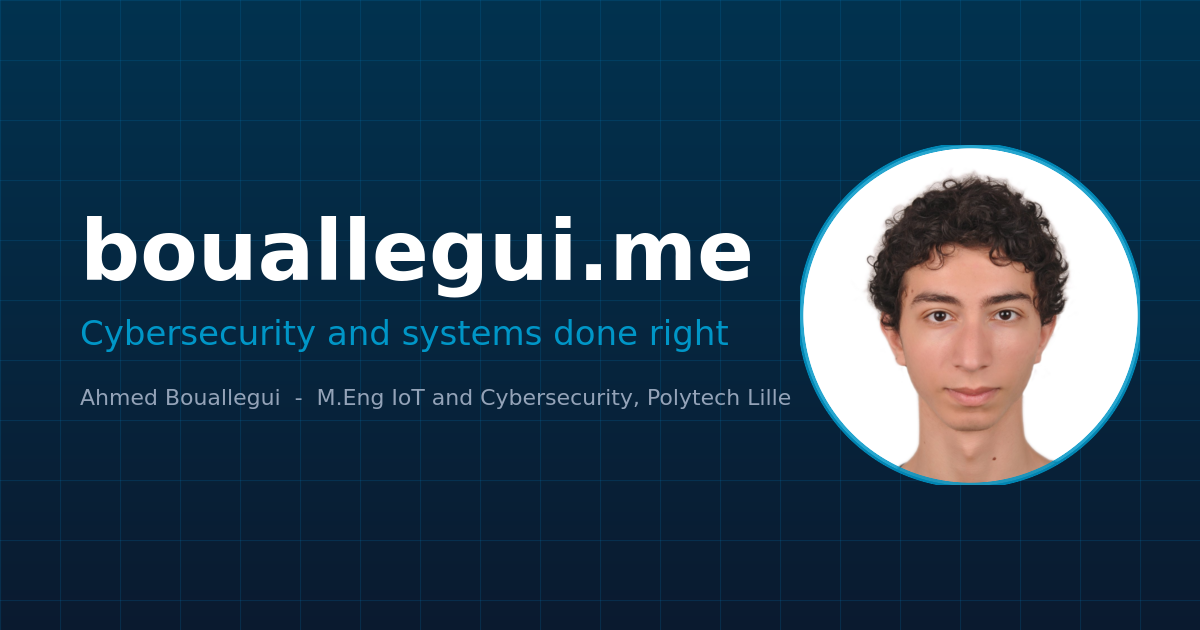
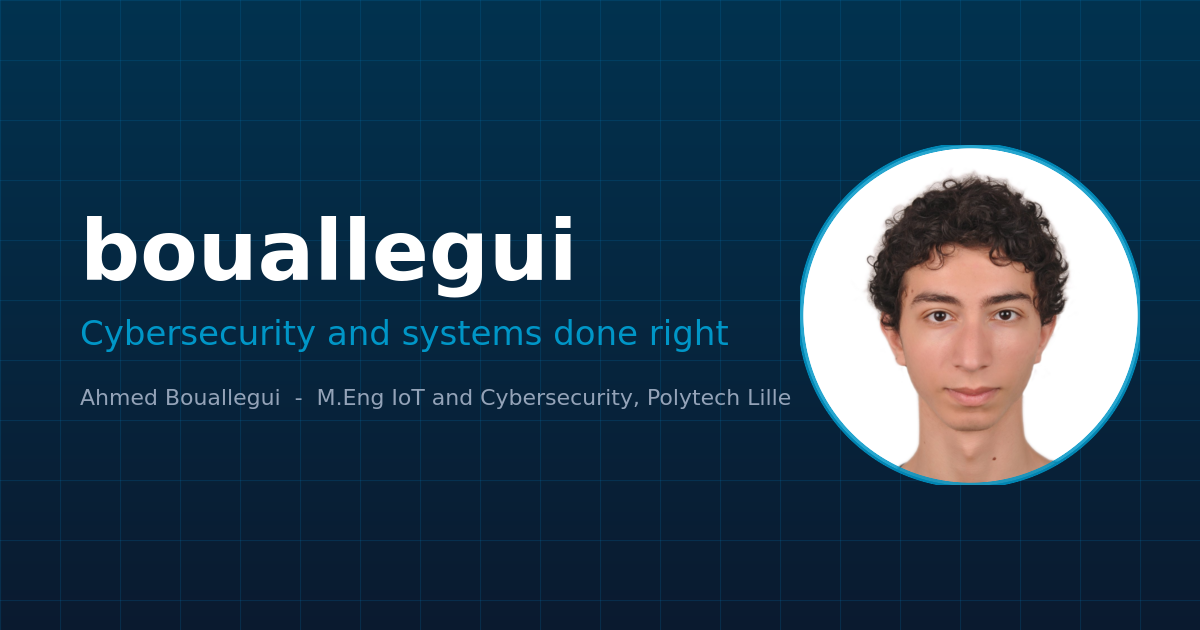
fix: retire the last bouallegui.me strings
The project on Cloudflare Pages is called bouallegui and the canonical
origin is bouallegui.pages.dev, but the footer brand, the WebSite JSON-LD
name, the og card headline, the contact form subject, the package name
and a few README lines still said bouallegui.me. The footer now carries
the same brand as the page titles and og:site_name, and the og card
headline is the bare brand so it does not collide with the portrait.

Changed region(s): [[0.4625, 0.3619, 0.6475, 0.4524]]

diff --git a/index.html b/index.html
@@ -31,7 +31,7 @@
   <link rel="stylesheet" href="css/output.css">
   <script src="js/theme.js"></script>
   <script type="application/ld+json">{"@context":"https://schema.org","@type":"Person","name":"Ahmed Taha Bouallegui","url":"https://bouallegui.pages.dev/","image":"https://bouallegui.pages.dev/images/portrait.jpg","sameAs":["https://github.com/TahaBouallegui","https://www.linkedin.com/in/ahmed-taha-bouallegui-474215306"]}</script>
-  <script type="application/ld+json">{"@context":"https://schema.org","@type":"WebSite","name":"bouallegui.me","url":"https://bouallegui.pages.dev/","inLanguage":"en"}</script>
+  <script type="application/ld+json">{"@context":"https://schema.org","@type":"WebSite","name":"Ahmed Taha Bouallegui","url":"https://bouallegui.pages.dev/","inLanguage":"en"}</script>
 </head>
 <body class="bg-surface text-ink">
   <a id="skip" class="skip-link" href="#main">Skip to main content</a>
@@ -268,7 +268,7 @@
   <footer data-part="footer" class="mt-24 border-t border-slate-200 bg-slate-50/80">
   <div class="container flex flex-wrap items-center justify-between gap-4 py-7 text-sm text-slate-600">
     <div class="flex flex-wrap items-baseline gap-x-3 gap-y-1">
-      <p class="font-display text-slate-700">&copy; <span id="current-year">2026</span> Bouallegui.me - Cybersecurity and systems done right</p>
+      <p class="font-display text-slate-700">&copy; <span id="current-year">2026</span> Ahmed Taha Bouallegui - Cybersecurity and systems done right</p>
       <p>Site source and writing under <a href="https://www.gnu.org/licenses/gpl-3.0.html" rel="license" class="text-link transition hover:underline">GPL-3.0-or-later</a></p>
     </div>
     <ul class="flex items-center gap-6">

diff --git a/posts/my-shell-is-a-package.html b/posts/my-shell-is-a-package.html
@@ -155,7 +155,7 @@ users.users.&lt;user&gt;.shell = self.packages.${pkgs.system}.environment;</code
   <footer data-part="footer" class="mt-24 border-t border-slate-200 bg-slate-50/80">
   <div class="container flex flex-wrap items-center justify-between gap-4 py-7 text-sm text-slate-600">
     <div class="flex flex-wrap items-baseline gap-x-3 gap-y-1">
-      <p class="font-display text-slate-700">&copy; <span id="current-year">2026</span> Bouallegui.me - Cybersecurity and systems done right</p>
+      <p class="font-display text-slate-700">&copy; <span id="current-year">2026</span> Ahmed Taha Bouallegui - Cybersecurity and systems done right</p>
       <p>Site source and writing under <a href="https://www.gnu.org/licenses/gpl-3.0.html" rel="license" class="text-link transition hover:underline">GPL-3.0-or-later</a></p>
     </div>
     <ul class="flex items-center gap-6">

diff --git a/posts/one-flake-three-machines.html b/posts/one-flake-three-machines.html
@@ -134,7 +134,7 @@ imports = [ self.nixosModules.desktop ... ];</code></pre>
   <footer data-part="footer" class="mt-24 border-t border-slate-200 bg-slate-50/80">
   <div class="container flex flex-wrap items-center justify-between gap-4 py-7 text-sm text-slate-600">
     <div class="flex flex-wrap items-baseline gap-x-3 gap-y-1">
-      <p class="font-display text-slate-700">&copy; <span id="current-year">2026</span> Bouallegui.me - Cybersecurity and systems done right</p>
+      <p class="font-display text-slate-700">&copy; <span id="current-year">2026</span> Ahmed Taha Bouallegui - Cybersecurity and systems done right</p>
       <p>Site source and writing under <a href="https://www.gnu.org/licenses/gpl-3.0.html" rel="license" class="text-link transition hover:underline">GPL-3.0-or-later</a></p>
     </div>
     <ul class="flex items-center gap-6">

diff --git a/posts/a-keyboard-that-took-out-its-own-mcu.html b/posts/a-keyboard-that-took-out-its-own-mcu.html
@@ -237,7 +237,7 @@ _delay_us(2);</code></pre>
   <footer data-part="footer" class="mt-24 border-t border-slate-200 bg-slate-50/80">
   <div class="container flex flex-wrap items-center justify-between gap-4 py-7 text-sm text-slate-600">
     <div class="flex flex-wrap items-baseline gap-x-3 gap-y-1">
-      <p class="font-display text-slate-700">&copy; <span id="current-year">2026</span> Bouallegui.me - Cybersecurity and systems done right</p>
+      <p class="font-display text-slate-700">&copy; <span id="current-year">2026</span> Ahmed Taha Bouallegui - Cybersecurity and systems done right</p>
       <p>Site source and writing under <a href="https://www.gnu.org/licenses/gpl-3.0.html" rel="license" class="text-link transition hover:underline">GPL-3.0-or-later</a></p>
     </div>
     <ul class="flex items-center gap-6">

diff --git a/posts/nl80211-wireless-detection.html b/posts/nl80211-wireless-detection.html
@@ -363,7 +363,7 @@ nla_put_failure:
   <footer data-part="footer" class="mt-24 border-t border-slate-200 bg-slate-50/80">
   <div class="container flex flex-wrap items-center justify-between gap-4 py-7 text-sm text-slate-600">
     <div class="flex flex-wrap items-baseline gap-x-3 gap-y-1">
-      <p class="font-display text-slate-700">&copy; <span id="current-year">2026</span> Bouallegui.me - Cybersecurity and systems done right</p>
+      <p class="font-display text-slate-700">&copy; <span id="current-year">2026</span> Ahmed Taha Bouallegui - Cybersecurity and systems done right</p>
       <p>Site source and writing under <a href="https://www.gnu.org/licenses/gpl-3.0.html" rel="license" class="text-link transition hover:underline">GPL-3.0-or-later</a></p>
     </div>
     <ul class="flex items-center gap-6">

diff --git a/posts/an-editor-built-up-from-nothing.html b/posts/an-editor-built-up-from-nothing.html
@@ -138,7 +138,7 @@ return {
   <footer data-part="footer" class="mt-24 border-t border-slate-200 bg-slate-50/80">
   <div class="container flex flex-wrap items-center justify-between gap-4 py-7 text-sm text-slate-600">
     <div class="flex flex-wrap items-baseline gap-x-3 gap-y-1">
-      <p class="font-display text-slate-700">&copy; <span id="current-year">2026</span> Bouallegui.me - Cybersecurity and systems done right</p>
+      <p class="font-display text-slate-700">&copy; <span id="current-year">2026</span> Ahmed Taha Bouallegui - Cybersecurity and systems done right</p>
       <p>Site source and writing under <a href="https://www.gnu.org/licenses/gpl-3.0.html" rel="license" class="text-link transition hover:underline">GPL-3.0-or-later</a></p>
     </div>
     <ul class="flex items-center gap-6">

diff --git a/fr/about.html b/fr/about.html
@@ -172,7 +172,7 @@
   <footer data-part="footer" class="mt-24 border-t border-slate-200 bg-slate-50/80">
   <div class="container flex flex-wrap items-center justify-between gap-4 py-7 text-sm text-slate-600">
     <div class="flex flex-wrap items-baseline gap-x-3 gap-y-1">
-      <p class="font-display text-slate-700">&copy; <span id="current-year">2026</span> Bouallegui.me - Cybersécurité et systèmes, bien faits</p>
+      <p class="font-display text-slate-700">&copy; <span id="current-year">2026</span> Ahmed Taha Bouallegui - Cybersécurité et systèmes, bien faits</p>
       <p>Source du site et textes sous <a href="https://www.gnu.org/licenses/gpl-3.0.html" rel="license" class="text-link transition hover:underline">GPL-3.0-or-later</a></p>
     </div>
     <ul class="flex items-center gap-6">

diff --git a/fr/blog.html b/fr/blog.html
@@ -248,7 +248,7 @@
   <footer data-part="footer" class="mt-24 border-t border-slate-200 bg-slate-50/80">
   <div class="container flex flex-wrap items-center justify-between gap-4 py-7 text-sm text-slate-600">
     <div class="flex flex-wrap items-baseline gap-x-3 gap-y-1">
-      <p class="font-display text-slate-700">&copy; <span id="current-year">2026</span> Bouallegui.me - Cybersécurité et systèmes, bien faits</p>
+      <p class="font-display text-slate-700">&copy; <span id="current-year">2026</span> Ahmed Taha Bouallegui - Cybersécurité et systèmes, bien faits</p>
       <p>Source du site et textes sous <a href="https://www.gnu.org/licenses/gpl-3.0.html" rel="license" class="text-link transition hover:underline">GPL-3.0-or-later</a></p>
     </div>
     <ul class="flex items-center gap-6">

diff --git a/fr/contact.html b/fr/contact.html
@@ -180,7 +180,7 @@
   <footer data-part="footer" class="mt-24 border-t border-slate-200 bg-slate-50/80">
   <div class="container flex flex-wrap items-center justify-between gap-4 py-7 text-sm text-slate-600">
     <div class="flex flex-wrap items-baseline gap-x-3 gap-y-1">
-      <p class="font-display text-slate-700">&copy; <span id="current-year">2026</span> Bouallegui.me - Cybersécurité et systèmes, bien faits</p>
+      <p class="font-display text-slate-700">&copy; <span id="current-year">2026</span> Ahmed Taha Bouallegui - Cybersécurité et systèmes, bien faits</p>
       <p>Source du site et textes sous <a href="https://www.gnu.org/licenses/gpl-3.0.html" rel="license" class="text-link transition hover:underline">GPL-3.0-or-later</a></p>
     </div>
     <ul class="flex items-center gap-6">

diff --git a/fr/index.html b/fr/index.html
@@ -268,7 +268,7 @@
   <footer data-part="footer" class="mt-24 border-t border-slate-200 bg-slate-50/80">
   <div class="container flex flex-wrap items-center justify-between gap-4 py-7 text-sm text-slate-600">
     <div class="flex flex-wrap items-baseline gap-x-3 gap-y-1">
-      <p class="font-display text-slate-700">&copy; <span id="current-year">2026</span> Bouallegui.me - Cybersécurité et systèmes, bien faits</p>
+      <p class="font-display text-slate-700">&copy; <span id="current-year">2026</span> Ahmed Taha Bouallegui - Cybersécurité et systèmes, bien faits</p>
       <p>Source du site et textes sous <a href="https://www.gnu.org/licenses/gpl-3.0.html" rel="license" class="text-link transition hover:underline">GPL-3.0-or-later</a></p>
     </div>
     <ul class="flex items-center gap-6">

diff --git a/fr/portfolio.html b/fr/portfolio.html
@@ -196,7 +196,7 @@
   <footer data-part="footer" class="mt-24 border-t border-slate-200 bg-slate-50/80">
   <div class="container flex flex-wrap items-center justify-between gap-4 py-7 text-sm text-slate-600">
     <div class="flex flex-wrap items-baseline gap-x-3 gap-y-1">
-      <p class="font-display text-slate-700">&copy; <span id="current-year">2026</span> Bouallegui.me - Cybersécurité et systèmes, bien faits</p>
+      <p class="font-display text-slate-700">&copy; <span id="current-year">2026</span> Ahmed Taha Bouallegui - Cybersécurité et systèmes, bien faits</p>
       <p>Source du site et textes sous <a href="https://www.gnu.org/licenses/gpl-3.0.html" rel="license" class="text-link transition hover:underline">GPL-3.0-or-later</a></p>
     </div>
     <ul class="flex items-center gap-6">

diff --git a/fr/resume.html b/fr/resume.html
@@ -286,7 +286,7 @@
   <footer data-part="footer" class="mt-24 border-t border-slate-200 bg-slate-50/80">
   <div class="container flex flex-wrap items-center justify-between gap-4 py-7 text-sm text-slate-600">
     <div class="flex flex-wrap items-baseline gap-x-3 gap-y-1">
-      <p class="font-display text-slate-700">&copy; <span id="current-year">2026</span> Bouallegui.me - Cybersécurité et systèmes, bien faits</p>
+      <p class="font-display text-slate-700">&copy; <span id="current-year">2026</span> Ahmed Taha Bouallegui - Cybersécurité et systèmes, bien faits</p>
       <p>Source du site et textes sous <a href="https://www.gnu.org/licenses/gpl-3.0.html" rel="license" class="text-link transition hover:underline">GPL-3.0-or-later</a></p>
     </div>
     <ul class="flex items-center gap-6">
